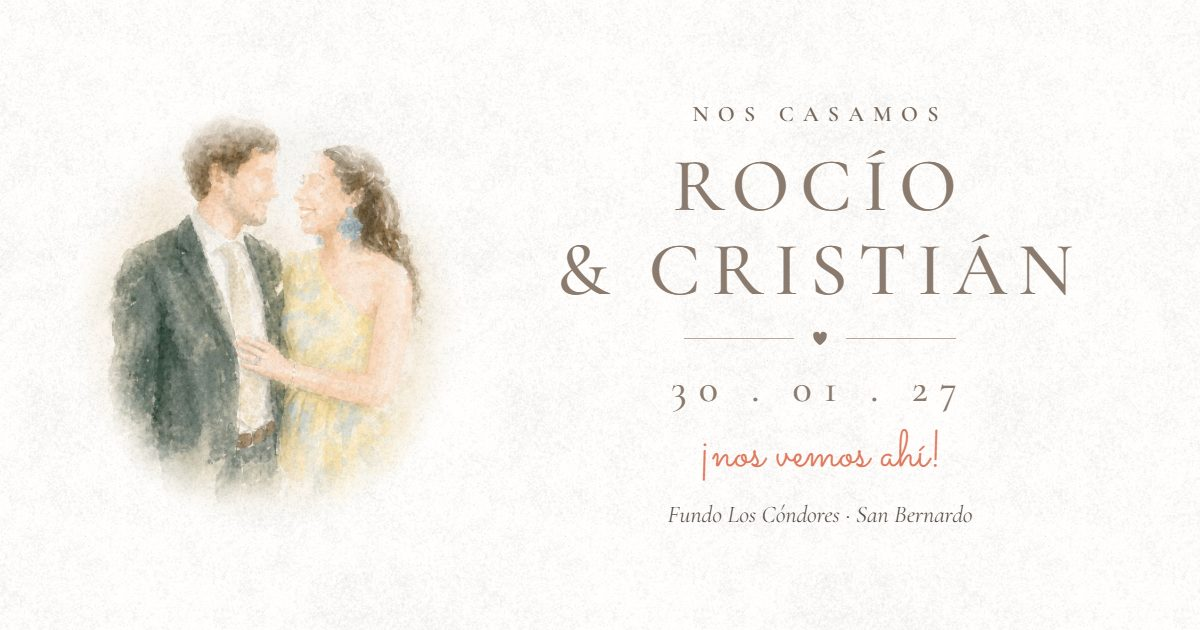
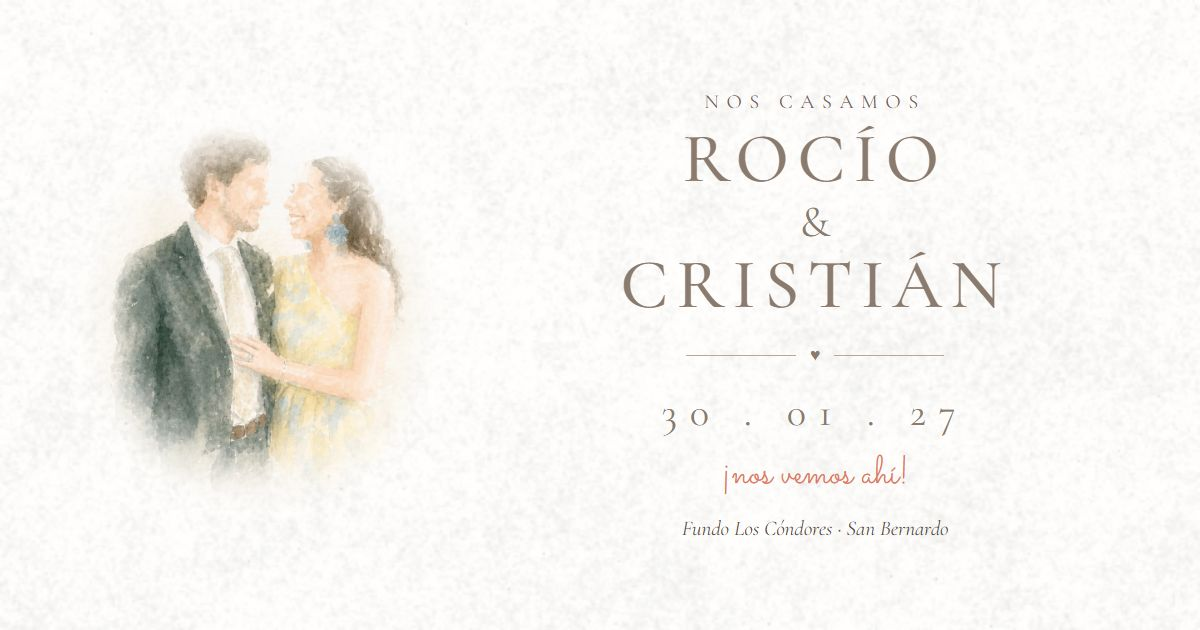
feat: open calendar apps directly on mobile and stack names in preview
- Android: Google Calendar opens the app via an intent, with web fallback
- iOS: the .ics is now a static file so Safari opens the Calendar sheet
- og.jpg: "Rocío / & / Cristián" on three lines; bump cache version

diff --git a/src/lib/calendario.ts b/src/lib/calendario.ts
@@ -87,15 +87,39 @@ export function urlGoogleCalendar(): string {
   return `https://calendar.google.com/calendar/render?${params.toString()}&dates=${fechas}`;
 }
 
-/** Baja el .ics como archivo. Se revoca el object URL para no filtrar memoria. */
-export function descargarIcs(nombre = 'matrimonio-rocio-cristian.ics'): void {
-  const blob = new Blob([construirIcs()], { type: 'text/calendar;charset=utf-8' });
-  const url = URL.createObjectURL(blob);
-  const a = document.createElement('a');
-  a.href = url;
-  a.download = nombre;
-  document.body.appendChild(a);
-  a.click();
-  a.remove();
-  URL.revokeObjectURL(url);
+/**
+ * El .ics se publica como archivo estático (lo emite el plugin de vite.config.ts)
+ * y no como blob: Safari en iPhone solo abre la hoja «Agregar al calendario» al
+ * navegar a una URL https servida como text/calendar; con un blob lo baja a Archivos.
+ */
+export const ARCHIVO_ICS = 'matrimonio-rocio-cristian.ics';
+
+export const esAndroid = () => /Android/i.test(navigator.userAgent);
+
+/** Los iPad nuevos se presentan como Mac; se delatan por la pantalla táctil. */
+export const esIos = () =>
+  /iPhone|iPad|iPod/i.test(navigator.userAgent) ||
+  (/Macintosh/.test(navigator.userAgent) && navigator.maxTouchPoints > 1);
+
+/**
+ * En Android, un intent abre la app de Google Calendar con el formulario del
+ * evento ya lleno. Si la app no está, Chrome sigue a `browser_fallback_url`.
+ */
+export function intentGoogleCalendar(): string {
+  const extras = [
+    `S.title=${encodeURIComponent(EVENTO.titulo)}`,
+    `l.beginTime=${Date.parse(EVENTO.inicio)}`,
+    `l.endTime=${Date.parse(EVENTO.fin)}`,
+    `S.eventLocation=${encodeURIComponent(EVENTO.lugar)}`,
+    `S.description=${encodeURIComponent(`${EVENTO.descripcion}\n\n${SITIO_URL}`)}`,
+    `S.browser_fallback_url=${encodeURIComponent(urlGoogleCalendar())}`,
+  ];
+  return [
+    'intent:#Intent',
+    'action=android.intent.action.INSERT',
+    'type=vnd.android.cursor.item/event',
+    'package=com.google.android.calendar',
+    ...extras,
+    'end',
+  ].join(';');
 }

diff --git a/vite.config.ts b/vite.config.ts
@@ -1,7 +1,44 @@
-import { defineConfig } from 'vite';
+import { fileURLToPath } from 'node:url';
+import { defineConfig, runnerImport, type Plugin } from 'vite';
 import react from '@vitejs/plugin-react';
 
+interface ModuloCalendario {
+  ARCHIVO_ICS: string;
+  construirIcs: () => string;
+}
+
+/**
+ * Publica el .ics como archivo estático junto al sitio. Se arma con el mismo
+ * código del navegador (src/lib/calendario.ts) para que no haya dos fuentes.
+ */
+function eventoIcs(): Plugin {
+  const cargar = async () =>
+    (
+      await runnerImport<ModuloCalendario>(
+        fileURLToPath(new URL('./src/lib/calendario.ts', import.meta.url)),
+        { configFile: false },
+      )
+    ).module;
+
+  return {
+    name: 'evento-ics',
+    configureServer(server) {
+      server.middlewares.use(async (req, res, next) => {
+        if (!req.url?.split('?')[0].endsWith('.ics')) return next();
+        const { ARCHIVO_ICS, construirIcs } = await cargar();
+        if (req.url.split('?')[0] !== `/${ARCHIVO_ICS}`) return next();
+        res.setHeader('Content-Type', 'text/calendar; charset=utf-8');
+        res.end(construirIcs());
+      });
+    },
+    async generateBundle() {
+      const { ARCHIVO_ICS, construirIcs } = await cargar();
+      this.emitFile({ type: 'asset', fileName: ARCHIVO_ICS, source: construirIcs() });
+    },
+  };
+}
+
 export default defineConfig({
-  plugins: [react()],
+  plugins: [react(), eventoIcs()],
   base: './',
 });

diff --git a/src/components/ui/BotonCalendario.tsx b/src/components/ui/BotonCalendario.tsx
@@ -3,7 +3,7 @@ import Button from '@mui/material/Button';
 import Menu from '@mui/material/Menu';
 import MenuItem from '@mui/material/MenuItem';
 import { colores } from '../../theme';
-import { descargarIcs, urlGoogleCalendar } from '../../lib/calendario';
+import { ARCHIVO_ICS, esAndroid, esIos, intentGoogleCalendar, urlGoogleCalendar } from '../../lib/calendario';
 
 /**
  * Un solo botón con menú: dos botones sueltos («Google» y «.ics») obligarían al
@@ -14,12 +14,15 @@ export function BotonCalendario() {
   const abierto = Boolean(ancla);
 
   function google() {
-    window.open(urlGoogleCalendar(), '_blank', 'noopener,noreferrer');
+    // En Android abre la app; en iOS la app no acepta eventos por URL, así que va a la web.
+    if (esAndroid()) window.location.href = intentGoogleCalendar();
+    else window.open(urlGoogleCalendar(), '_blank', 'noopener,noreferrer');
     setAncla(null);
   }
 
   function ics() {
-    descargarIcs();
+    // iPhone muestra la hoja de Calendario; en escritorio se descarga el archivo.
+    window.location.href = `${import.meta.env.BASE_URL}${ARCHIVO_ICS}`;
     setAncla(null);
   }
 
@@ -56,7 +59,7 @@ export function BotonCalendario() {
           Google Calendar
         </MenuItem>
         <MenuItem onClick={ics} sx={{ fontSize: 19, py: 1.25, px: 3 }}>
-          Apple u Outlook (.ics)
+          {esIos() ? 'Calendario de iPhone' : 'Apple u Outlook (.ics)'}
         </MenuItem>
       </Menu>
     </>

diff --git a/index.html b/index.html
@@ -23,7 +23,7 @@
       property="og:description"
       content="Sábado 30 de enero de 2027, Fundo Los Cóndores, San Bernardo. ¡Nos vemos ahí!"
     />
-    <meta property="og:image" content="https://fralkayg.github.io/matrimonio-rocio-cris/og.jpg?v=2" />
+    <meta property="og:image" content="https://fralkayg.github.io/matrimonio-rocio-cris/og.jpg?v=3" />
     <meta property="og:image:type" content="image/jpeg" />
     <meta property="og:image:width" content="1200" />
     <meta property="og:image:height" content="630" />
@@ -38,7 +38,7 @@
       name="twitter:description"
       content="Sábado 30 de enero de 2027, Fundo Los Cóndores, San Bernardo. ¡Nos vemos ahí!"
     />
-    <meta name="twitter:image" content="https://fralkayg.github.io/matrimonio-rocio-cris/og.jpg?v=2" />
+    <meta name="twitter:image" content="https://fralkayg.github.io/matrimonio-rocio-cris/og.jpg?v=3" />
     <link rel="preload" href="/src/assets/fonts/cormorant-garamond-latin-400-normal.woff2" as="font" type="font/woff2" crossorigin />
   </head>
   <body>
